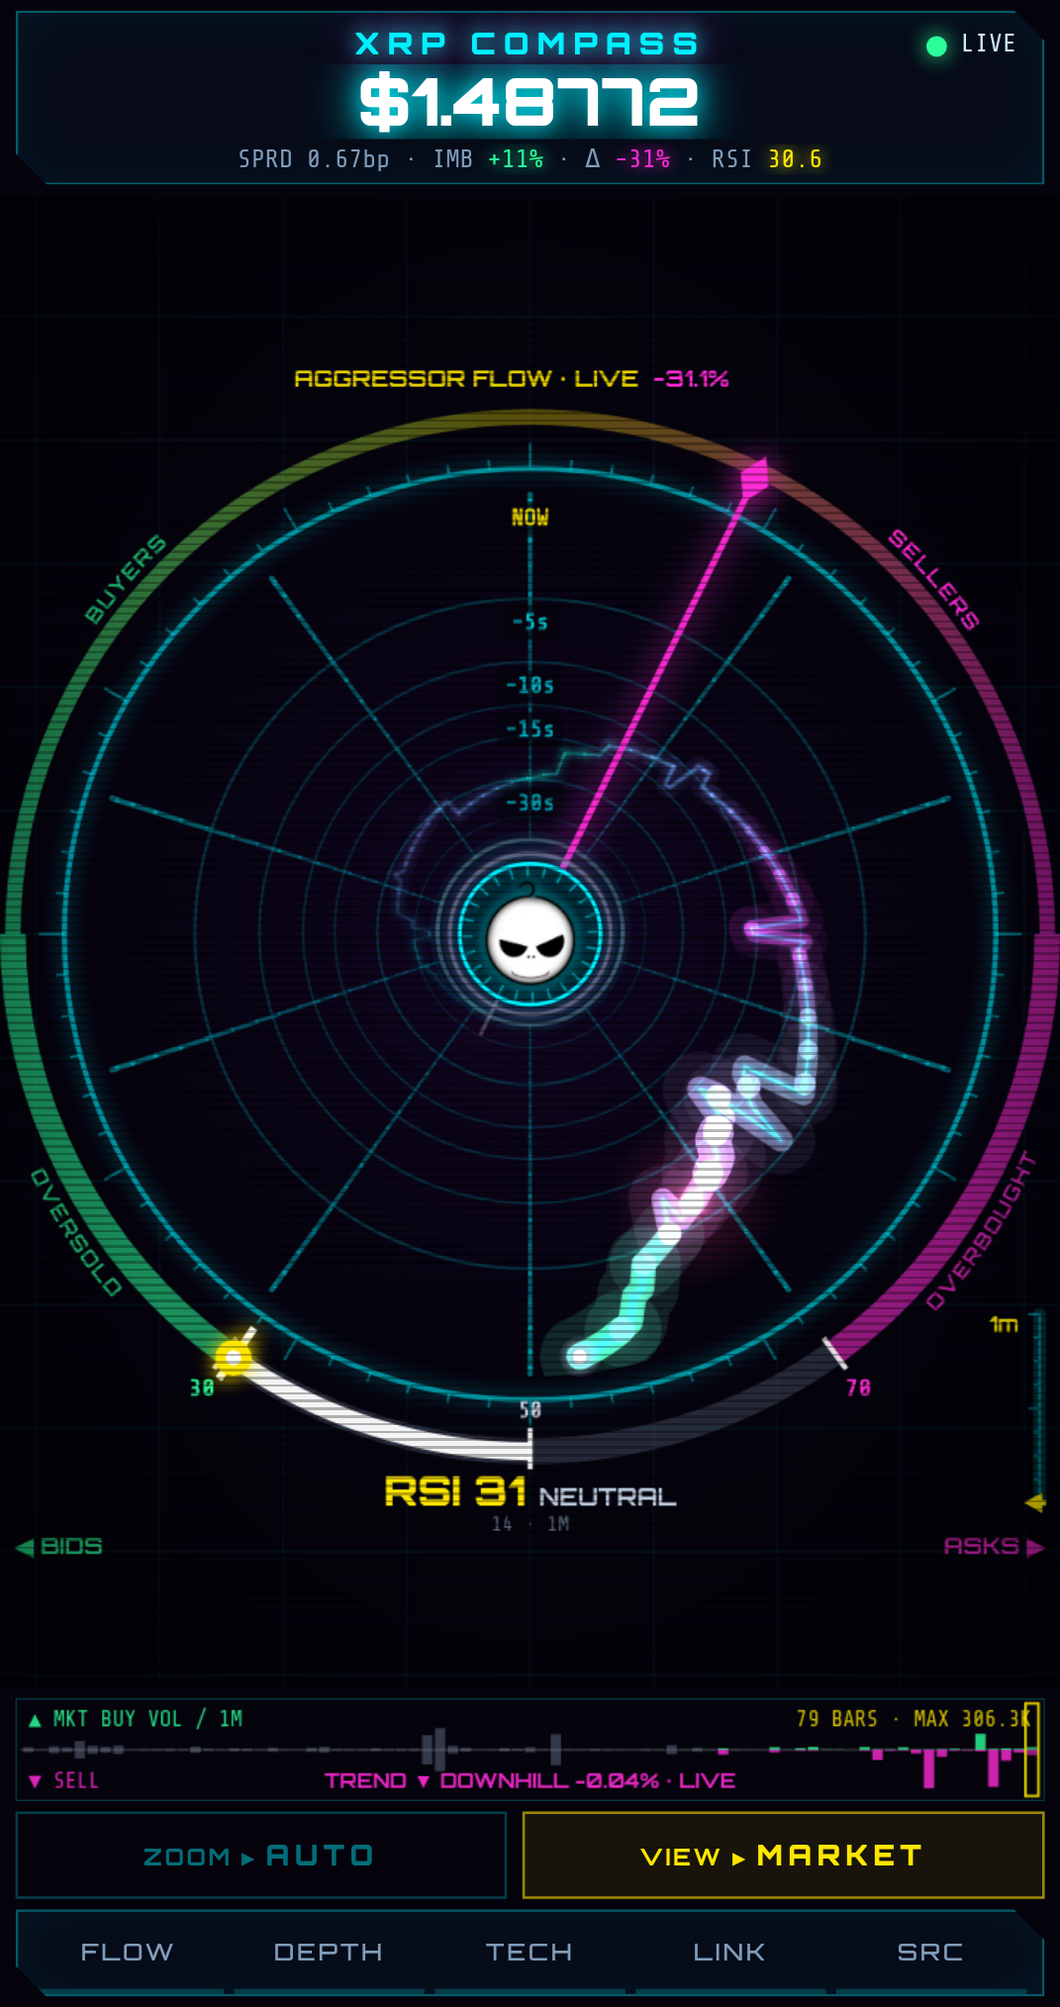
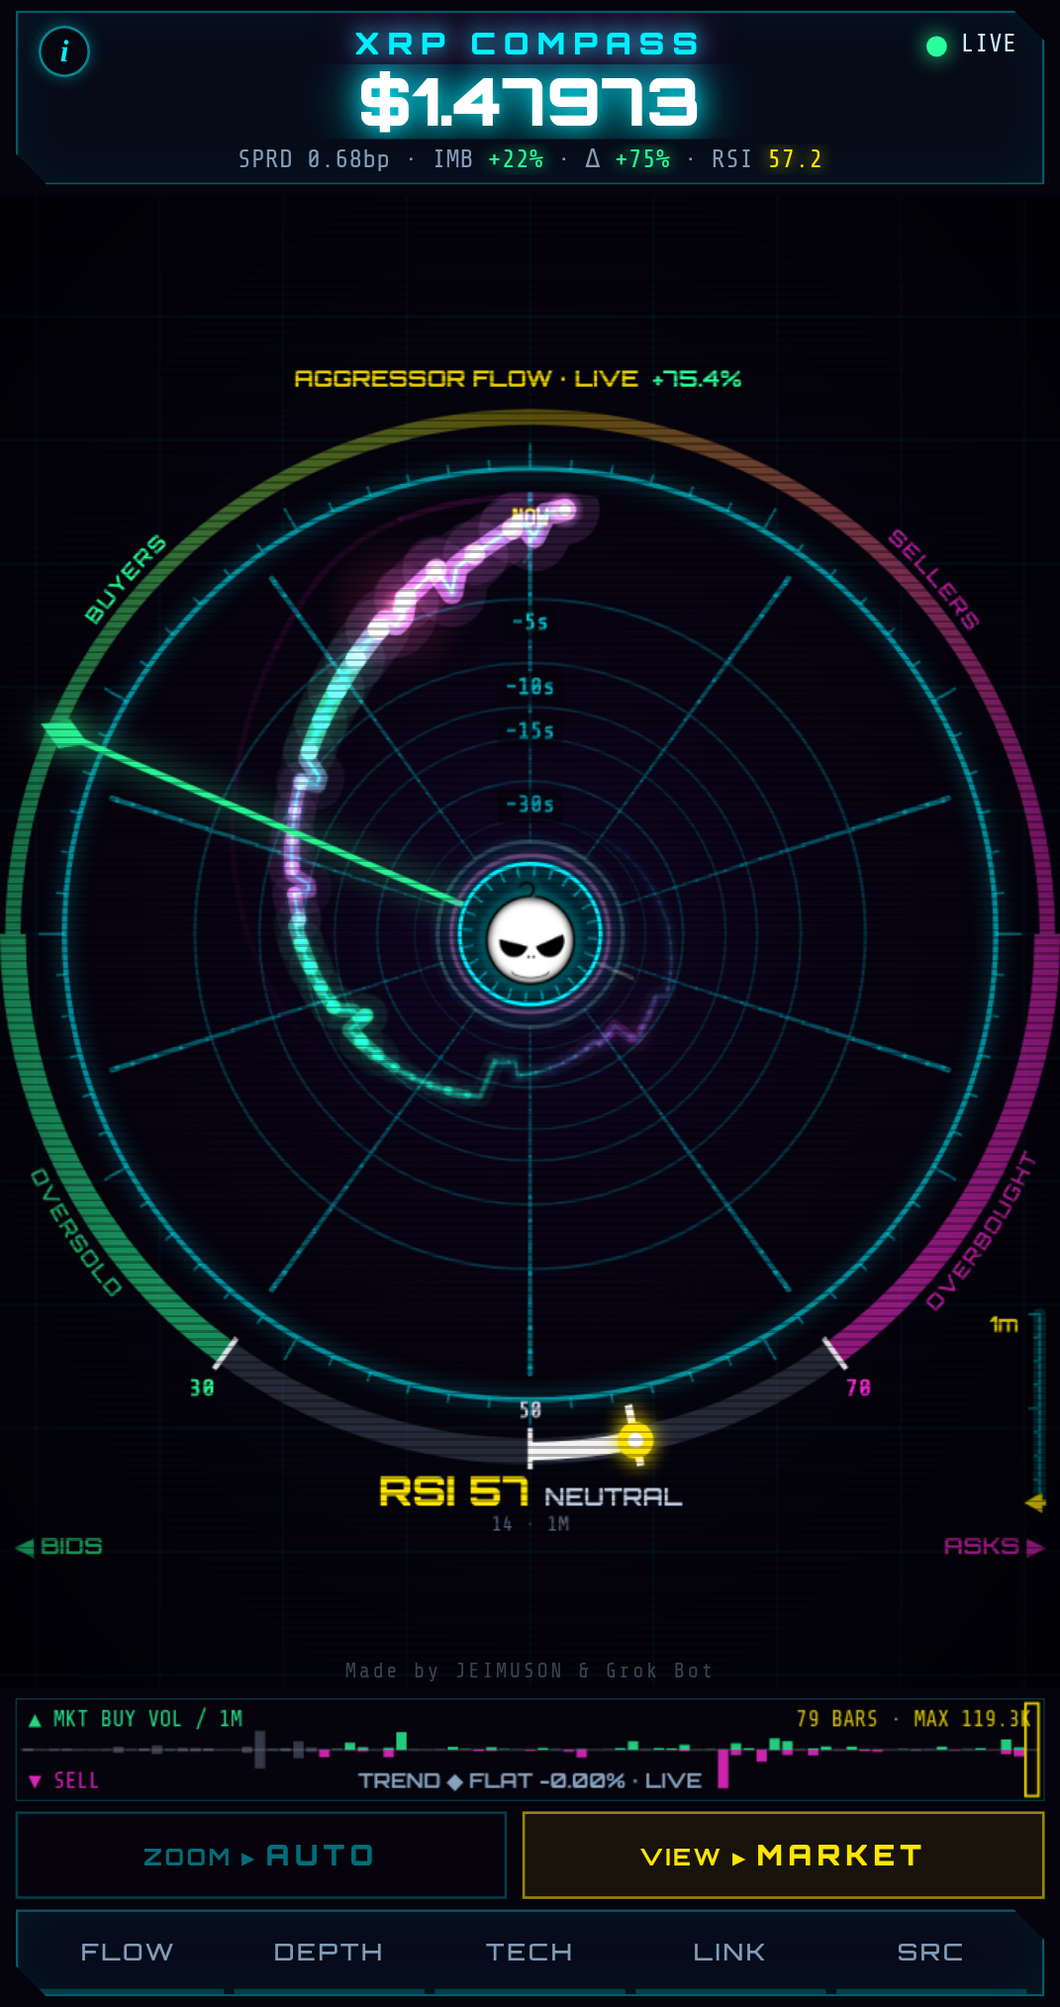
MARKET ghost walls (build 20261002-1852)

diff --git a/index.html b/index.html
@@ -3,7 +3,7 @@
 <head>
 <meta charset="utf-8">
 <meta http-equiv="Cache-Control" content="no-cache, no-store, must-revalidate"><meta http-equiv="Pragma" content="no-cache"><meta http-equiv="Expires" content="0">
-<script>window.OFC_BUILD='20261002-1710';(function(){try{if(!/^https?:/.test(location.protocol))return;fetch(location.pathname+'?_='+Date.now(),{cache:'no-store'}).then(r=>r.text()).then(t=>{const m=t.match(/OFC_BUILD='([^']+)'/);if(m&&m[1]!==window.OFC_BUILD&&sessionStorage.getItem('ofcB')!==m[1]){sessionStorage.setItem('ofcB',m[1]);location.replace(location.pathname+'?v='+m[1]+location.hash);}}).catch(()=>{});}catch(e){}})();</script>
+<script>window.OFC_BUILD='20261002-1852';(function(){try{if(!/^https?:/.test(location.protocol))return;fetch(location.pathname+'?_='+Date.now(),{cache:'no-store'}).then(r=>r.text()).then(t=>{const m=t.match(/OFC_BUILD='([^']+)'/);if(m&&m[1]!==window.OFC_BUILD&&sessionStorage.getItem('ofcB')!==m[1]){sessionStorage.setItem('ofcB',m[1]);location.replace(location.pathname+'?v='+m[1]+location.hash);}}).catch(()=>{});}catch(e){}})();</script>
 <meta name="viewport" content="width=device-width,initial-scale=1,viewport-fit=cover,user-scalable=no">
 <meta name="theme-color" content="#05030c">
 <meta name="color-scheme" content="dark">
@@ -164,7 +164,8 @@ body.hublogo #top .logo{display:none}   /* mobile: logo lives in the compass hub
  <li>One lap = the time window (15–60s, shown on the zoom bar).</li>
  <li>Trail swings <b>out</b> = price up, <b>in</b> = price down.</li>
  <li><b class="gr">Green</b> = buyers, <b class="rd">red</b> = sellers. Thicker trail = more volume.</li>
- <li><b>Flares</b> mark the spots with the heaviest trading.</li></ul>
+ <li><b>Flares</b> mark the spots with the heaviest trading.</li>
+ <li>Faint <b>ghost arcs</b> = the biggest limit walls, drawn where trades at their price would land. They flare when hit, flash when eaten, go dashed when pulled.</li></ul>
  <h3>LIMIT VIEW · ORDER-BOOK WALLS</h3>
  <ul><li>Arcs are <b>walls</b> of waiting orders: <b class="gr">buyers left</b>, <b class="rd">sellers right</b>.</li>
  <li>Distance from the middle = distance from the current price.</li>
@@ -533,7 +534,7 @@ function combine(){
   for(const {bb,aa} of per){for(const [p,q] of bb){const k=+key(p).toFixed(6);bm.set(k,(bm.get(k)||0)+q);}for(const [p,q] of aa){const k=+key(p).toFixed(6);am.set(k,(am.get(k)||0)+q);}}
   // venues/USDT books can overlap slightly; levels on the wrong side of the volume-weighted mid are dropped
   sortedB=[...bm.entries()].filter(x=>x[0]<M).sort((x,y)=>y[0]-x[0]);sortedA=[...am.entries()].filter(x=>x[0]>M).sort((x,y)=>x[0]-y[0]);
-  if(EAT&&sortedB.length>12){const u=Math.max(0,Math.min(1,(Date.now()-EAT.t0-EAT.hold)/EAT.ms));if(!EAT.q0){if(!EAT.px){let bd=1e9;for(const x of sortedB){const d=Math.abs(rOf(dispMid-x[0])-0.55*RMAX);if(d<bd){bd=d;EAT.px=x[0];}}}EAT.q0=2*Math.max(...sortedB.map(x=>x[1]),...sortedA.map(x=>x[1]));}let e=sortedB.find(x=>x[0]===EAT.px);if(!e){e=[EAT.px,0];sortedB.push(e);sortedB.sort((x,y)=>y[0]-x[0]);}e[1]=EAT.q0*(1-(EAT.kind==='pull'?0.98:0.9)*u);}   // test hook: a simulated bid wall (eaten: with fills / pulled: without)
+  if(EAT&&sortedB.length>12){const u=Math.max(0,Math.min(1,(Date.now()-EAT.t0-EAT.hold)/EAT.ms));if(!EAT.q0){if(EAT.px<0)EAT.px=sortedB[Math.min(sortedB.length-1,-EAT.px)][0];if(!EAT.px){let bd=1e9;for(const x of sortedB){const d=Math.abs(rOf(dispMid-x[0])-0.55*RMAX);if(d<bd){bd=d;EAT.px=x[0];}}}EAT.q0=2*Math.max(...sortedB.map(x=>x[1]),...sortedA.map(x=>x[1]));}let e=sortedB.find(x=>x[0]===EAT.px);if(!e){e=[EAT.px,0];sortedB.push(e);sortedB.sort((x,y)=>y[0]-x[0]);}e[1]=EAT.q0*(1-(EAT.kind==='pull'?0.98:0.9)*u);}   // test hook: a simulated bid wall (eaten: with fills / pulled: without)
   if(sortedB.length>200)sortedB.length=200;if(sortedA.length>200)sortedA.length=200;
   if(!sortedB.length||!sortedA.length){BREADY=false;return;}
   bestBid=sortedB[0][0];bestAsk=sortedA[0][0];mid=simPx(one?(bestBid+bestAsk)/2:M);if(!dispMid)dispMid=mid;BREADY=true;
@@ -992,7 +993,7 @@ function spVen(){   // per-venue levels mapped to the merged bucket keys + each 
   return use.map(B=>{const bb=topLv(B.b,true,VDEPTH),aa=topLv(B.a,false,VDEPTH);return {v:B.v,bb,aa,kb:key,ka:key,eb:bb.length?bb[bb.length-1][0]:0,ea:aa.length?aa[aa.length-1][0]:Infinity};});}
 function spEv(o){o.tt=performance.now();SPF.ev.push(o);SPF.n[o.spoof?'spoof':o.kind]++;if(SPF.ev.length>80)SPF.ev.shift();}
 setInterval(()=>{
-  if(VIEW!=='limit'||!BREADY||!mid||!REFQ||!sortedB.length||!sortedA.length){SPF.trk.clear();return;}
+  if(!BREADY||!mid||!REFQ||!sortedB.length||!sortedA.length){SPF.trk.clear();return;}
   const n=Date.now(), tol=BUCK/2+mid*0.00002, M={bid:new Map(sortedB),ask:new Map(sortedA)};
   if(EAT&&EAT.kind==='eat'&&EAT.px){const e=M.bid.get(EAT.px);if(EAT.lq!=null&&e!=null&&e<EAT.lq)trades.push({t:n,side:'sell',qty:EAT.lq-e,px:EAT.px,v:SRC==='all'?'kraken':SRC});EAT.lq=e;}   // test hook: fills for a simulated eaten wall
   let sum=0;for(const x of sortedB)sum+=x[1];for(const x of sortedA)sum+=x[1];
@@ -1433,6 +1434,7 @@ function drawTrailFlares(now){
 }
 function trailDom(){ // current dominant aggressor side over the last ~10s of the trail (-1 sell .. +1 buy)
   let b=0,x=0;for(let a=0;a<Math.min(10,trail.length);a++){b+=trail[a].bs||0;x+=trail[a].ss||0;}return b+x>0?(b-x)/(b+x):0;}
+let GWS=new Map(),GWT=0;   // MARKET ghost-wall state
 function drawTrail(now){
   if(!trail.length||!dispMid)return;
   const span=dispMid*dispRange, px2=(RMAX-R0)/span, sEnd=FOCAL/(FOCAL+HIST_SEC);
@@ -1453,14 +1455,14 @@ function drawTrail(now){
     BSP=Math.max(mid*0.00002,0.6*(dv[Math.floor(dv.length*0.9)]||0));}   // AUTO: ~90th-pct move maps to ~1.6x amplitude (tanh softens outliers)
   const WIG=[];
   const AMAX=Math.max(1,Math.min(trail.length-1+lag,MWIN)), DZ=HIST_SEC/MWIN, KO=0.985, sMin=FOCAL/(FOCAL+AMAX*DZ);
-  const pt=f=>{const age=f===0?0:f+lag,dz=age*DZ,p=proj(dz),s=p.s,sT=FOCAL/(FOCAL+dz+TURN*DZ);
+  const pt=(f,PX)=>{const age=f===0?0:f+lag,dz=age*DZ,p=proj(dz),s=p.s,sT=FOCAL/(FOCAL+dz+TURN*DZ);
     const u=Math.max(0,Math.min(1,(s-sMin)/(1-sMin)))*Math.min(1,(AMAX-age)/6+0.0);
     // radial wiggle = (trade price - newest trade) / bulge scale, amplitude scales with perspective; soft (tanh) limit ~0.55 coil gap
-    const raw=(prAt(f)-P0)/BSP*RMAX*KO*s*0.22, L=Math.max(2,0.55*RMAX*KO*(s-sT)), off=L*Math.tanh(raw/L);
+    const raw=((PX==null?prAt(f):PX)-P0)/BSP*RMAX*KO*s*0.22, L=Math.max(2,0.55*RMAX*KO*(s-sT)), off=L*Math.tanh(raw/L);
     const r=RMAX*KO*s+off, th=ang(age);   // head (f=0) = newest trade -> off 0 -> rides the outer ring
     let x=p.x+Math.cos(th)*r, y=p.y+Math.sin(th)*r;
     {const dx=x-CX,dy=y-CY,d=Math.hypot(dx,dy),m=RMAX*0.995,k0=0.9*m;if(d>k0){const dd=k0+(m-k0)*Math.tanh((d-k0)/(m-k0));x=CX+dx*dd/d;y=CY+dy*dd/d;}}   // soft outer edge
-    if(WIG.length<4000)WIG.push(off); if(f===3||f===8)(window.__ofcR=window.__ofcR||{})['o'+f]=off;
+    if(PX==null){if(WIG.length<4000)WIG.push(off); if(f===3||f===8)(window.__ofcR=window.__ofcR||{})['o'+f]=off;}
     return {x,y,s,u};};
   const SUB=MWIN<=20?10:MWIN<=45?6:MWIN<=90?4:3, sub=a=>{const o=[];for(let j=0;j<=SUB;j++)o.push(pt(a+j/SUB));return o;};
   const P=[];for(let a=0;a<=NW;a++)P.push(pt(a));
@@ -1472,6 +1474,35 @@ function drawTrail(now){
   const HT=trail.map(b=>heatAt(b.Ps));let hmx=1e-9;for(const v of HT)hmx=Math.max(hmx,v);
   const hot=HT.map(v=>Math.pow(v/hmx,1.5)), pulse=0.5+0.5*Math.sin(now/240);
   ctx.save();ctx.lineCap='round';ctx.lineJoin='round';
+  // ---- MARKET ghost walls: the biggest live LIMIT walls (merged book, top 3 per side >= 25% of the biggest level) drawn as faint contours
+  // in the spiral's own geometry: the locus where trades AT that price would land (same angle/depth/price mapping as the trail), over the
+  // newest half-turn, under the spiral. Hidden when the price sits outside the current price scale (offset saturated).
+  // Trades at the price -> flare; EATEN (classifier) -> short break flash; PULLED -> fades out as a dashed ghost.
+  if(BREADY&&sortedB.length&&sortedA.length){const tN=performance.now(),dnow=Date.now(),tol=BUCK/2+mid*0.00002;let maxq=1e-9;for(const L of [sortedB,sortedA])for(const x of L)if(x[1]>maxq)maxq=x[1];
+    const sT0=FOCAL/(FOCAL+TURN*DZ),L0=Math.max(2,0.55*RMAX*KO*(1-sT0)),vis=X=>Math.abs((X-P0)/BSP*RMAX*KO*0.22/L0),live=new Set(),dt=GWT?Math.min(0.1,(tN-GWT)/1000):0;GWT=tN;
+    for(const [side,lv] of [['bid',sortedB],['ask',sortedA]])for(const [px,q] of topBySize(lv,3)){if(q<0.25*maxq)continue;const k=side+'|'+px;live.add(k);
+      let G=GWS.get(k);if(!G){G={side,px,q,a:0,fl:0,br:-1e9,pull:-1e9,evT:tN};GWS.set(k,G);}G.q=q;}
+    for(const o of SPF.ev){if(o.kind!=='eaten'&&o.kind!=='pulled')continue;const G=GWS.get(o.side+'|'+o.px);if(G&&o.tt>G.evT){G.evT=o.tt;if(o.kind==='eaten')G.br=o.tt;else G.pull=o.tt;}}
+    const A2=Math.max(2,Math.min(AMAX,MWIN*0.5)),NC=8;
+    for(const [k,G] of GWS){const on=live.has(k),pulled=tN-G.pull<3000,brk=tN-G.br<800;
+      G.a+=((on&&!pulled?1:0)-G.a)*(1-Math.exp(-dt/(on?0.5:pulled?1.2:0.35)));
+      let hv=0;for(let i=trades.length-1;i>=0;i--){const t=trades[i];if(t.t<dnow-1200)break;if((G.side==='bid'?t.side==='sell':t.side==='buy')&&Math.abs(t.px-G.px)<=tol)hv+=t.qty;}
+      const ft=Math.min(1,hv/(0.08*G.q+1e-9));G.fl+=(ft-G.fl)*(ft>G.fl?0.35:1-Math.exp(-dt/0.6));
+      if(!on&&G.a<0.01&&!brk&&!pulled){GWS.delete(k);continue;}
+      const v=vis(G.px),va=Math.max(0,Math.min(1,(1.3-v)/0.3));G.v=v;G.A=0;if(va<=0)continue;
+      const rel=Math.sqrt(Math.min(1,G.q/maxq)),bu=brk?1-(tN-G.br)/800:0,c=G.side==='bid'?COL.bid:COL.ask;
+      const A=va*Math.max(G.a,pulled?Math.max(0,1-(tN-G.pull)/3000):0,bu);G.A=A;if(A<=0.01)continue;
+      const pts=[];for(let f=0;f<=A2+1e-6;f+=0.5)pts.push([f,pt(f,G.px)]);
+      ctx.save();ctx.lineCap='round';
+      if(pulled&&!on){ctx.setLineDash([6,6]);ctx.lineDashOffset=-tN/45;}else if(brk){ctx.setLineDash([10*(1-bu)+3,7+12*(1-bu)]);}
+      const col=pulled&&!on?[215,200,255]:brk?[Math.min(255,c[0]+110),Math.min(255,c[1]+110),Math.min(255,c[2]+110)]:c;
+      ctx.lineWidth=(1+3*rel+4*G.fl+6*bu)*Math.max(0.8,RMAX/400);
+      if(Q>0&&(G.fl>0.15||bu>0)){ctx.shadowColor=rgba(c,1);ctx.shadowBlur=10+18*Math.max(G.fl,bu);}
+      for(let ci=0;ci<NC;ci++){const i0=Math.floor(ci*(pts.length-1)/NC),i1=Math.floor((ci+1)*(pts.length-1)/NC);if(i1<=i0)continue;const fm=pts[(i0+i1)>>1][0],um=pts[(i0+i1)>>1][1].u;
+        const al=A*(0.09+0.13*rel+0.5*G.fl+0.6*bu)*Math.pow(um,0.8)*Math.pow(Math.max(0,1-fm/A2),0.7);if(al<=0.004)continue;
+        ctx.strokeStyle=rgba(col,Math.min(0.9,al).toFixed(3));ctx.beginPath();ctx.moveTo(pts[i0][1].x,pts[i0][1].y);for(let i=i0+1;i<=i1;i++)ctx.lineTo(pts[i][1].x,pts[i][1].y);ctx.stroke();}
+      ctx.restore();}
+  }
   // centreline spine: thin continuous track that fades into the vanishing point
   ctx.lineWidth=1;
   const S=[];for(let a=0;a<P.length-1;a++)S.push(sub(a));
@@ -1685,7 +1716,7 @@ function frame(){
   drawGrid(now);
   const LIM=VIEW==='limit';
   const clipC=()=>{ctx.save();ctx.beginPath();ctx.arc(CX,CY,RMAX+1,0,Math.PI*2);ctx.clip();};
-  if(LIM){clipC();drawHistory(now);ctx.restore();} else {if(trailDirty)buildTrail();}
+  if(LIM){clipC();drawHistory(now);ctx.restore();} else {updRefQ(now);if(trailDirty)buildTrail();}
   drawPriceRings();
   if(LIM){drawBook(now);drawPriceLabels();}else PLBL=[];
   if(!LIM){clipC();drawTrail(now);ctx.restore();drawMouthHead(now);drawTrailFlares(now);}sparks.length=0;shocks.length=0;
@@ -1703,7 +1734,7 @@ function frame(){
 connect();seedREST();
 requestAnimationFrame(frame);
 document.addEventListener('visibilitychange',()=>{if(!document.hidden&&(!ws||ws.readyState>1)){backoff=1000;connect();}});
-window.__ofc={simEat(ms,kind,hold,px){EAT={t0:Date.now(),ms,kind:kind||'eat',hold:hold==null?0:hold,px:px||0,q0:0,lq:null};},get spoof(){return {n:{...SPF.n},trk:SPF.trk.size,ev:SPF.ev.slice(-6).map(o=>({k:o.kind,s:o.side,px:o.px,q0:+o.q0.toFixed(1),q1:+o.q1.toFixed(1),ratio:o.ratio,spoof:o.spoof,big:o.big,ven:o.ven}))}},get eat(){const n=performance.now();return EAT&&{px:EAT.px,q0:EAT.q0,ref:REFQ,cp:history.filter((h,i)=>i%8===0&&(n-h.t)/1000<=LWIN).map(h=>{const e=h.b.find(x=>x[0]===EAT.px);return e?[Math.round((n-h.t)/1000),+levelSpan(e[1],REFQ||h.maxq).toFixed(3)]:null;}).filter(Boolean)}},get mt(){return {w:+MT.w.toFixed(1),q:+MT.q.toFixed(2),z:+MT.z.toFixed(2),sg:MT.sg,burst:burst.on}},get lt(){return {w:+LT.w.toFixed(1),rho:+LT.rho.toFixed(2),lwin:+LWIN.toFixed(1),burst:burst.on}},get keyWalls(){return VIEW==='limit'?{...KEYW,nSig:{bid:topWalls.bid.length,ask:topWalls.ask.length},marks:PLBL.map(q=>q.txt)}:null},simFlat(){SIM={on:true,base:mid,t0:0,dir:0,amp:0,ramp:1};},simMove(dir,frac,ramp){SIM.t0=Date.now();SIM.dir=dir;SIM.amp=frac*SIM.base;SIM.ramp=ramp;},get resp(){const v=proj(HIST_SEC),m=proj(HIST_SEC*0.4);return {tw:+(TWIST_MAX*VSP.w*180/Math.PI).toFixed(2),vp:+(v.y-CY).toFixed(1),vm:+(m.y-CY).toFixed(1),o3:+((window.__ofcR||{}).o3||0).toFixed(1),o8:+((window.__ofcR||{}).o8||0).toFixed(1),mw:+MWIN.toFixed(1),dr:dispRange,pr:pathRef}},get bp(){return BP.length},autoOff(){pillT=0;if(rangeAuto)pillTap();},get dr(){return dispRange},get hubLogo(){return !WIDE&&LOGO.complete&&LOGO.naturalWidth>0},get hdrLogo(){const e=document.querySelector('#top .logo');return !!e&&getComputedStyle(e).display!=='none'},get flares(){return VIEW==='market'?[...FLR.entries()].map(([k,F])=>{const p=F.dx!=null?{x:F.dx,y:F.dy}:null;return {k,T:F.T,tT:trailT,st:trailStep,w:+F.w.toFixed(2),on:!!F.on,side:F.c===COL.bid?'bid':'ask',x:p?Math.round(p.x):null,y:p?Math.round(p.y):null};}):null},winTo(S){intro=null;setAuto(false);syncZA();let lo=0,hi=1;const f=u=>mWinOf(zR(u));const dec=f(0)>f(1);for(let i=0;i<40;i++){const m=(lo+hi)/2;if((f(m)>S)===dec)lo=m;else hi=m;}rangeFrac=zR((lo+hi)/2);return f((lo+hi)/2);},get vring(){if(VIEW!=='market')return null;const p=proj(HIST_SEC);return {full:+(RMAX*p.s).toFixed(1),r:+(RMAX*p.s).toFixed(1),x:Math.round(p.x),y:Math.round(p.y),R0:Math.round(R0)}},get twist(){return VIEW==='market'?+(TWIST_MAX*VSP.w*180/Math.PI).toFixed(1):0},get spin(){return {w:+VSP.w.toFixed(3),ph:+VSP.ph.toFixed(3)}},zManual(){intro=null;setAuto(false);syncZA();},get burst(){return {...burst,now:Date.now()}},simBurst(usd){const px=trades.length?trades[trades.length-1].px:mid,n=Date.now();for(let k=0;k<8;k++)trades.push({t:n-(7-k)*300,side:k%2?'sell':'buy',qty:usd/8/px,px,v:'kraken'});trailDirty=true;},get auto(){return rangeAuto},zAuto(){intro=null;setAuto(true);syncZA();},zIn(){intro=null;setAuto(false);rangeFrac=zR(1);syncZA();},get mwin(){return +MWIN.toFixed(1)},get lwin(){return +LWIN.toFixed(1)},get prange(){return PRANGE},get disp(){return dispRange},get plbl(){return PLBL.map(q=>q.txt)},get hubTxt(){return mid?hubTxt():null},get head(){return {x:Math.round(TRHEAD.x),y:Math.round(TRHEAD.y),CX,CY,R0:Math.round(R0),RMAX:Math.round(RMAX)}},get logo(){const g=logoGeom();return g&&{x:Math.round(g.x),y:Math.round(g.y),S:g.S,CX,CY,RMAX,W,H,Z:zbarGeom()}},get ven(){return Object.fromEntries(Object.entries(VEN).map(([k,v])=>[k,{st:v.st,share:+v.share.toFixed(3),books:BOOKS.filter(B=>B.v===k).map(B=>({k:B.k,ready:B.ready,n:B.b.size+B.a.size,ck:B.ckOk,ckBad:B.ckBad,resyncs:B.resyncs}))}]))},get src(){return SRC},setSource,get comb(){return {ready:BREADY,mid,bestBid,bestAsk,nb:sortedB.length,na:sortedA.length}},get raw(){return RAW.length},get flow(){const f=flow(30);return {b:Math.round(f.b),s:Math.round(f.s),r:+f.r.toFixed(3)}},get trendW(){return trendWin()},get win(){return winSec},get heatN(){return Object.fromEntries(Object.entries(HEATS).map(([w,H])=>[w,H.m.size]))},get intro(){return intro},book,get mid(){return mid},get ck(){return {ckOk,ckBad,ckLast}},get trades(){return tradeCount},get bubbles(){return bubbles.length},get hist(){return history.length},get ind(){return ind},get candles(){return candles.size},get dir(){return INBOUND?'in':'out'},get view(){return VIEW},get layout(){return {W,H,CX,CY,RMAX,R0,WIDE}},get tunnel(){const far=proj(HIST_SEC);return {FOCAL,farScale:far.s,farY:far.y-CY,dispRange,fitFrac,rangeAuto,RMAX}},zoom(f){setAuto(false);rangeFrac=Math.min(0.08,Math.max(0.0005,rangeFrac*f));},autoZoom(){setAuto(true);},get autoOn(){return rangeAuto},get zgeom(){return zbarGeom()},get conn(){return connState},get fps(){return FPS},get q(){return Q},get rc(){return reconnects},forceDrop(){ws&&ws.close();}};
+window.__ofc={get gw(){return [...GWS.values()].map(G=>({s:G.side,px:G.px,a:+G.a.toFixed(2),fl:+G.fl.toFixed(2),br:performance.now()-G.br<800,pull:performance.now()-G.pull<3000,v:+(G.v||0).toFixed(2),A:+(G.A||0).toFixed(2)}))},simEat(ms,kind,hold,px){EAT={t0:Date.now(),ms,kind:kind||'eat',hold:hold==null?0:hold,px:px||0,q0:0,lq:null};},get spoof(){return {n:{...SPF.n},trk:SPF.trk.size,ev:SPF.ev.slice(-6).map(o=>({k:o.kind,s:o.side,px:o.px,q0:+o.q0.toFixed(1),q1:+o.q1.toFixed(1),ratio:o.ratio,spoof:o.spoof,big:o.big,ven:o.ven}))}},get eat(){const n=performance.now();return EAT&&{px:EAT.px,q0:EAT.q0,ref:REFQ,cp:history.filter((h,i)=>i%8===0&&(n-h.t)/1000<=LWIN).map(h=>{const e=h.b.find(x=>x[0]===EAT.px);return e?[Math.round((n-h.t)/1000),+levelSpan(e[1],REFQ||h.maxq).toFixed(3)]:null;}).filter(Boolean)}},get mt(){return {w:+MT.w.toFixed(1),q:+MT.q.toFixed(2),z:+MT.z.toFixed(2),sg:MT.sg,burst:burst.on}},get lt(){return {w:+LT.w.toFixed(1),rho:+LT.rho.toFixed(2),lwin:+LWIN.toFixed(1),burst:burst.on}},get keyWalls(){return VIEW==='limit'?{...KEYW,nSig:{bid:topWalls.bid.length,ask:topWalls.ask.length},marks:PLBL.map(q=>q.txt)}:null},simFlat(){SIM={on:true,base:mid,t0:0,dir:0,amp:0,ramp:1};},simMove(dir,frac,ramp){SIM.t0=Date.now();SIM.dir=dir;SIM.amp=frac*SIM.base;SIM.ramp=ramp;},get resp(){const v=proj(HIST_SEC),m=proj(HIST_SEC*0.4);return {tw:+(TWIST_MAX*VSP.w*180/Math.PI).toFixed(2),vp:+(v.y-CY).toFixed(1),vm:+(m.y-CY).toFixed(1),o3:+((window.__ofcR||{}).o3||0).toFixed(1),o8:+((window.__ofcR||{}).o8||0).toFixed(1),mw:+MWIN.toFixed(1),dr:dispRange,pr:pathRef}},get bp(){return BP.length},autoOff(){pillT=0;if(rangeAuto)pillTap();},get dr(){return dispRange},get hubLogo(){return !WIDE&&LOGO.complete&&LOGO.naturalWidth>0},get hdrLogo(){const e=document.querySelector('#top .logo');return !!e&&getComputedStyle(e).display!=='none'},get flares(){return VIEW==='market'?[...FLR.entries()].map(([k,F])=>{const p=F.dx!=null?{x:F.dx,y:F.dy}:null;return {k,T:F.T,tT:trailT,st:trailStep,w:+F.w.toFixed(2),on:!!F.on,side:F.c===COL.bid?'bid':'ask',x:p?Math.round(p.x):null,y:p?Math.round(p.y):null};}):null},winTo(S){intro=null;setAuto(false);syncZA();let lo=0,hi=1;const f=u=>mWinOf(zR(u));const dec=f(0)>f(1);for(let i=0;i<40;i++){const m=(lo+hi)/2;if((f(m)>S)===dec)lo=m;else hi=m;}rangeFrac=zR((lo+hi)/2);return f((lo+hi)/2);},get vring(){if(VIEW!=='market')return null;const p=proj(HIST_SEC);return {full:+(RMAX*p.s).toFixed(1),r:+(RMAX*p.s).toFixed(1),x:Math.round(p.x),y:Math.round(p.y),R0:Math.round(R0)}},get twist(){return VIEW==='market'?+(TWIST_MAX*VSP.w*180/Math.PI).toFixed(1):0},get spin(){return {w:+VSP.w.toFixed(3),ph:+VSP.ph.toFixed(3)}},zManual(){intro=null;setAuto(false);syncZA();},get burst(){return {...burst,now:Date.now()}},simBurst(usd){const px=trades.length?trades[trades.length-1].px:mid,n=Date.now();for(let k=0;k<8;k++)trades.push({t:n-(7-k)*300,side:k%2?'sell':'buy',qty:usd/8/px,px,v:'kraken'});trailDirty=true;},get auto(){return rangeAuto},zAuto(){intro=null;setAuto(true);syncZA();},zIn(){intro=null;setAuto(false);rangeFrac=zR(1);syncZA();},get mwin(){return +MWIN.toFixed(1)},get lwin(){return +LWIN.toFixed(1)},get prange(){return PRANGE},get disp(){return dispRange},get plbl(){return PLBL.map(q=>q.txt)},get hubTxt(){return mid?hubTxt():null},get head(){return {x:Math.round(TRHEAD.x),y:Math.round(TRHEAD.y),CX,CY,R0:Math.round(R0),RMAX:Math.round(RMAX)}},get logo(){const g=logoGeom();return g&&{x:Math.round(g.x),y:Math.round(g.y),S:g.S,CX,CY,RMAX,W,H,Z:zbarGeom()}},get ven(){return Object.fromEntries(Object.entries(VEN).map(([k,v])=>[k,{st:v.st,share:+v.share.toFixed(3),books:BOOKS.filter(B=>B.v===k).map(B=>({k:B.k,ready:B.ready,n:B.b.size+B.a.size,ck:B.ckOk,ckBad:B.ckBad,resyncs:B.resyncs}))}]))},get src(){return SRC},setSource,get comb(){return {ready:BREADY,mid,bestBid,bestAsk,nb:sortedB.length,na:sortedA.length}},get raw(){return RAW.length},get flow(){const f=flow(30);return {b:Math.round(f.b),s:Math.round(f.s),r:+f.r.toFixed(3)}},get trendW(){return trendWin()},get win(){return winSec},get heatN(){return Object.fromEntries(Object.entries(HEATS).map(([w,H])=>[w,H.m.size]))},get intro(){return intro},book,get mid(){return mid},get ck(){return {ckOk,ckBad,ckLast}},get trades(){return tradeCount},get bubbles(){return bubbles.length},get hist(){return history.length},get ind(){return ind},get candles(){return candles.size},get dir(){return INBOUND?'in':'out'},get view(){return VIEW},get layout(){return {W,H,CX,CY,RMAX,R0,WIDE}},get tunnel(){const far=proj(HIST_SEC);return {FOCAL,farScale:far.s,farY:far.y-CY,dispRange,fitFrac,rangeAuto,RMAX}},zoom(f){setAuto(false);rangeFrac=Math.min(0.08,Math.max(0.0005,rangeFrac*f));},autoZoom(){setAuto(true);},get autoOn(){return rangeAuto},get zgeom(){return zbarGeom()},get conn(){return connState},get fps(){return FPS},get q(){return Q},get rc(){return reconnects},forceDrop(){ws&&ws.close();}};
 })();
 // ---------------- INFO overlay: what am I looking at? (✕ / tap outside / Esc) ----------------
 (function(){const I=document.getElementById('info'),B=document.getElementById('infoBtn');if(!I||!B)return;
